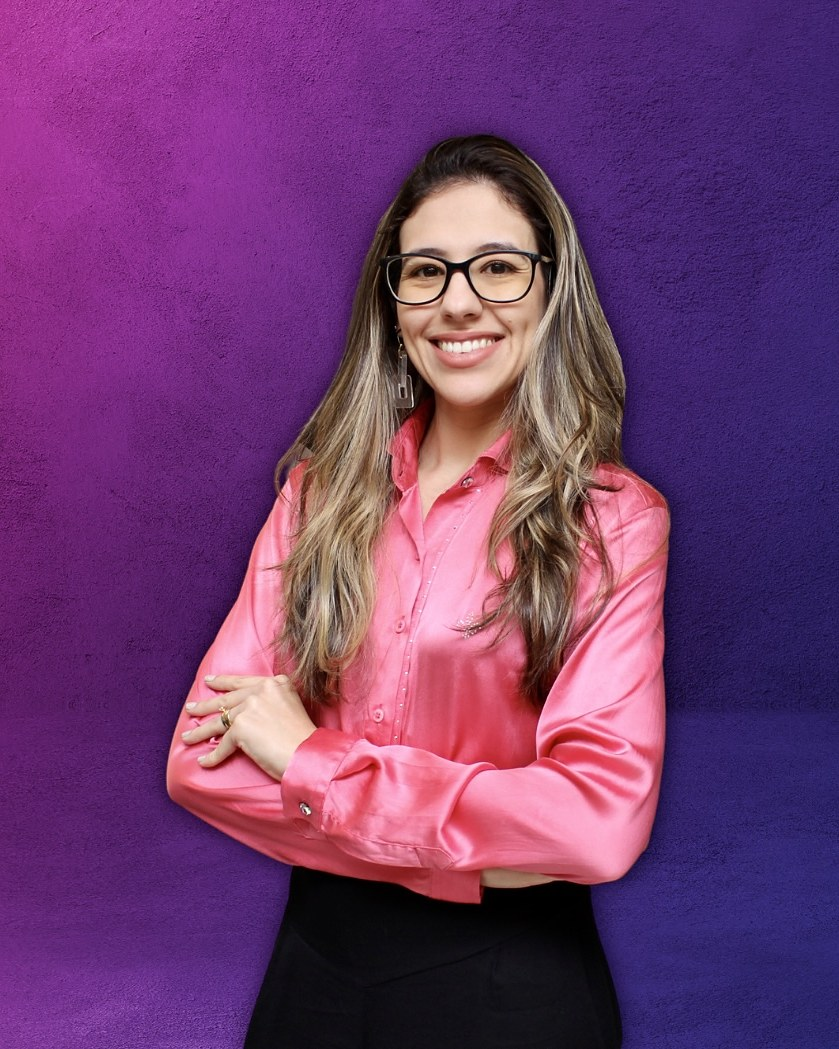
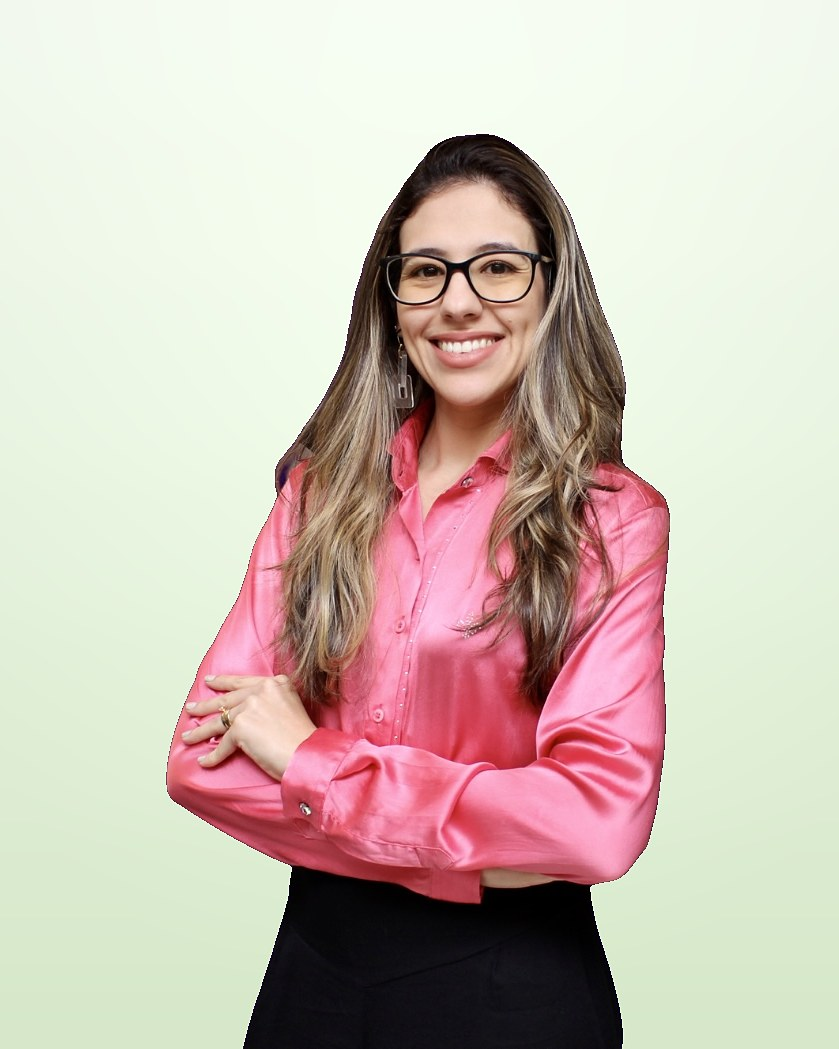
Fundo claro na foto do Método e nova foto no Sobre
Claude-Session: https://claude.ai/code/session_01JoztPH7Rb8QqrKAAiZTiww

diff --git a/site/index.html b/site/index.html
@@ -428,7 +428,7 @@ footer .legal{grid-column:1/-1;border-top:1px solid rgba(255,255,255,.15);paddin
 <!-- SOBRE -->
 <section class="sobre" id="sobre">
   <div class="wrap">
-    <div class="art reveal"><div class="img-round"><img src="img/sobre.jpg" alt="Lohraine Reink sorrindo" width="1040" height="1300" loading="lazy"></div></div>
+    <div class="art reveal"><div class="img-round"><img src="img/sobre.jpg" alt="Lohraine Reink no consultório" width="863" height="1079" loading="lazy"></div></div>
     <div>
       <span class="eyebrow reveal">Prazer, Lohraine</span>
       <h2 class="reveal">Nutrição com profundidade, <span class="hl">cuidado e presença</span></h2>
